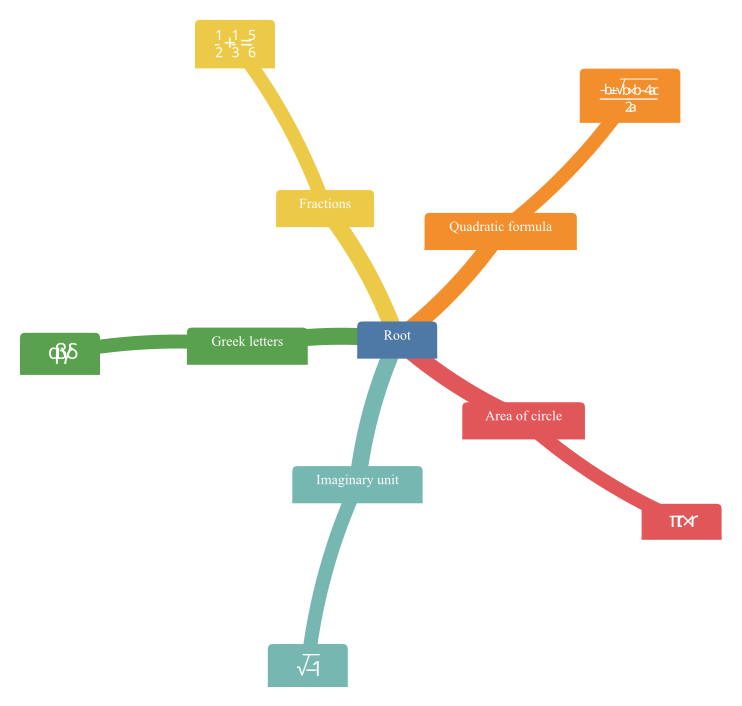
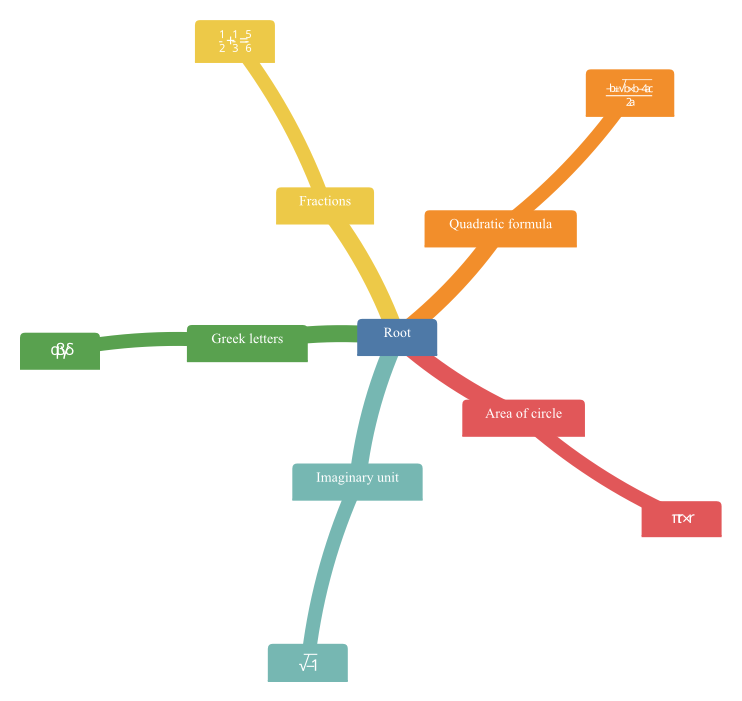
fix(math): tune spacing and baseline-align with surrounding text
Three readability fixes for $$..$$ output:

1. Track and expose the math expression's primary baseline. svgRenderer
   collects every glyph's op.Y while rendering; the median of those
   values gives the inline baseline (every inline char shares an op.Y;
   stacked numerators/denominators land on either side, so the median
   sits on the math axis). Plumb this through Render → RenderRich →
   text.MathRenderResult.Baseline.

2. Use that baseline in LabelElements instead of always centring the
   bbox. When the surrounding text uses dominant-baseline="auto" or
   "alphabetic" (e.g. sequence message labels), align the math baseline
   to ly so inline math like "Result is α" sits on the same line as the
   text. Centre-align stays for "central"/"middle".

3. Comma rendering adds a 0.15·fontSize trailing space (≈ \, in math
   mode), so f(x, t) reads with breathing room rather than running
   together. Drop displayScale from 1.5 to 1.2 — after the upside-down
   fix the math now renders at proper size, so the boost no longer
   needs to compensate for the previous mirrored layout.

diff --git a/pkg/renderer/math/math.go b/pkg/renderer/math/math.go
@@ -16,17 +16,31 @@ import (
 // fontSize controls the rendering scale; when 0 or negative, a default
 // of 14 is used.
 func Render(expr string, fontSize float64) (svg string, w, h float64, err error) {
+	s, w, h, _, err := RenderWithBaseline(expr, fontSize)
+	return s, w, h, err
+}
+
+// RenderWithBaseline is like Render but also returns the y-position of
+// the expression's primary baseline within the local SVG coordinate
+// system (where y=0 is the top of the rendered content). Callers that
+// need to align math with surrounding text by baseline use this value.
+func RenderWithBaseline(expr string, fontSize float64) (svg string, w, h, baseline float64, err error) {
 	expr = normalizeMathExpr(expr)
 	if fontSize <= 0 {
 		fontSize = defaultFontSize
 	}
-	return renderRaw(expr, fontSize*displayScale)
+	return renderRawWithBaseline(expr, fontSize*displayScale)
 }
 
 // renderRaw renders without applying displayScale; it's used internally
 // so the rich-renderer can apply displayScale once at the top level
 // instead of compounding it across recursive calls.
 func renderRaw(expr string, fontSize float64) (svg string, w, h float64, err error) {
+	s, w, h, _, err := renderRawWithBaseline(expr, fontSize)
+	return s, w, h, err
+}
+
+func renderRawWithBaseline(expr string, fontSize float64) (svg string, w, h, baseline float64, err error) {
 	// go-latex/mtex only resolves Greek letters and math operators
 	// when the parser is in math mode.  Bare expressions like \alpha
 	// are parsed in text mode and fall back to the backslash glyph.
@@ -36,22 +50,46 @@ func renderRaw(expr string, fontSize float64) (svg string, w, h float64, err err
 	}
 	fonts, err := MathFonts()
 	if err != nil {
-		return "", 0, 0, fmt.Errorf("math render: %w", err)
+		return "", 0, 0, 0, fmt.Errorf("math render: %w", err)
 	}
 	r := &svgRenderer{}
 	err = mtex.Render(r, expr, fontSize, defaultDPI, fonts)
 	if err != nil {
-		return "", 0, 0, fmt.Errorf("math render: %w", err)
+		return "", 0, 0, 0, fmt.Errorf("math render: %w", err)
 	}
 	// mtex's reported h is the bbox ascent — it understates total height
 	// for expressions with descenders or fractions. Use the observed
 	// y-range instead, and wrap the output in a translation so content
 	// starts at y=0.
 	if r.hasY {
+		baseline = medianBaseline(r.glyphYs) - r.minY
 		out := fmt.Sprintf(`<g transform="translate(0,%.3f)">%s</g>`, -r.minY, r.String())
-		return out, r.w, r.maxY - r.minY, nil
+		return out, r.w, r.maxY - r.minY, baseline, nil
 	}
-	return r.String(), r.w, r.h, nil
+	return r.String(), r.w, r.h, r.h, nil
+}
+
+// medianBaseline returns the median value of a slice of glyph baselines.
+// Median (rather than mean) keeps a stray descender or a stacked
+// numerator/denominator from biasing the result away from the inline
+// baseline that most glyphs share.
+func medianBaseline(ys []float64) float64 {
+	if len(ys) == 0 {
+		return 0
+	}
+	sorted := make([]float64, len(ys))
+	copy(sorted, ys)
+	// Insertion sort — n is small.
+	for i := 1; i < len(sorted); i++ {
+		for j := i; j > 0 && sorted[j-1] > sorted[j]; j-- {
+			sorted[j-1], sorted[j] = sorted[j], sorted[j-1]
+		}
+	}
+	mid := len(sorted) / 2
+	if len(sorted)%2 == 1 {
+		return sorted[mid]
+	}
+	return (sorted[mid-1] + sorted[mid]) / 2
 }
 
 // normalizeMathExpr cleans up common escaping issues in math expressions
@@ -65,10 +103,10 @@ const (
 	defaultFontSize = 14.0
 	defaultDPI      = 72.0
 	// displayScale enlarges math output relative to the surrounding text
-	// font size. Noto Sans Math glyphs at point-size N render visibly
-	// narrower than ordinary 16px text; scaling by 1.5 brings the math
-	// up to a comparable visual weight.
-	displayScale = 1.5
+	// font size. Noto Sans Math glyphs are visually a bit smaller than
+	// ordinary 16px text; a modest 1.2x bump brings the math to roughly
+	// the same x-height as adjacent text without overshadowing it.
+	displayScale = 1.2
 )
 
 // svgRenderer implements mtex.Renderer by converting drawtex
@@ -79,6 +117,12 @@ type svgRenderer struct {
 	dpi        float64
 	minY, maxY float64
 	hasY       bool
+	// glyphYs collects every glyph's op.Y (the baseline at which mtex
+	// placed that glyph). The median of these is a good approximation
+	// of the expression's primary baseline — for pure inline math every
+	// glyph shares the same op.Y, and for stacked content (fractions,
+	// roots) the median lands near the math axis.
+	glyphYs []float64
 }
 
 func (r *svgRenderer) noteY(y float64) {
@@ -106,6 +150,7 @@ func (r *svgRenderer) Render(w, h, dpi float64, cnv *drawtex.Canvas) error {
 	for _, op := range cnv.Ops() {
 		switch o := op.(type) {
 		case drawtex.GlyphOp:
+			r.glyphYs = append(r.glyphYs, o.Y)
 			r.renderGlyph(&buf, o)
 		case drawtex.RectOp:
 			r.renderRect(o)

diff --git a/pkg/renderer/math/rich.go b/pkg/renderer/math/rich.go
@@ -18,6 +18,14 @@ import (
 // individually, and concatenates the SVG fragments horizontally with the
 // special tokens rendered manually (comma glyph, raised/lowered groups).
 func RenderRich(expr string, fontSize float64) (svg string, w, h float64, err error) {
+	s, w, h, _, err := RenderRichWithBaseline(expr, fontSize)
+	return s, w, h, err
+}
+
+// RenderRichWithBaseline is like RenderRich but also returns the local
+// y-coordinate of the expression's primary baseline so callers can
+// baseline-align math with surrounding text.
+func RenderRichWithBaseline(expr string, fontSize float64) (svg string, w, h, baseline float64, err error) {
 	expr = normalizeMathExpr(expr)
 	if fontSize <= 0 {
 		fontSize = defaultFontSize
@@ -25,9 +33,9 @@ func RenderRich(expr string, fontSize float64) (svg string, w, h float64, err er
 	scaled := fontSize * displayScale
 	parts, ok := splitTopLevel(expr)
 	if !ok || len(parts) == 1 && parts[0].kind == partMath {
-		return renderRaw(stripNestedSupSub(expr), scaled)
+		return renderRawWithBaseline(stripNestedSupSub(expr), scaled)
 	}
-	return renderParts(parts, scaled)
+	return renderPartsWithBaseline(parts, scaled)
 }
 
 // stripNestedSupSub removes `^X` and `_X` patterns from the expression
@@ -184,35 +192,48 @@ func isAlpha(b byte) bool {
 // piece by (xCursor - localPieceMinX, 0). Since same fontSize produces
 // the same baseline location, simple horizontal stacking works.
 func renderParts(parts []rawPart, fontSize float64) (svg string, totalW, maxH float64, err error) {
+	s, w, h, _, e := renderPartsWithBaseline(parts, fontSize)
+	return s, w, h, e
+}
+
+// renderPartsWithBaseline assembles split parts and returns the
+// expression's primary baseline (in local SVG y) — taken from the first
+// math chunk (which sets the inline baseline for the whole expression).
+func renderPartsWithBaseline(parts []rawPart, fontSize float64) (svg string, totalW, maxH, baseline float64, err error) {
 	var sb strings.Builder
 	x := 0.0
 	maxH = 0.0
+	baselineSet := false
 	for _, p := range parts {
 		switch p.kind {
 		case partMath:
-			s, pw, ph, e := renderRaw(stripNestedSupSub(p.expr), fontSize)
+			s, pw, ph, pb, e := renderRawWithBaseline(stripNestedSupSub(p.expr), fontSize)
 			if e != nil {
-				return "", 0, 0, e
+				return "", 0, 0, 0, e
 			}
 			fmt.Fprintf(&sb, `<g transform="translate(%.3f,0)">%s</g>`, x, s)
 			x += pw
 			if ph > maxH {
 				maxH = ph
 			}
+			if !baselineSet {
+				baseline = pb
+				baselineSet = true
+			}
 		case partComma:
 			advance, glyphSVG, err := renderCharGlyph(',', fontSize)
 			if err != nil {
-				// Fall back to a small gap — better than failing.
 				x += fontSize * 0.3
 				continue
 			}
-			// Position comma so its baseline aligns with math baseline.
-			// Math output places its baseline near y = ascent of fonts;
-			// approximate by placing the comma at y offset of fontSize * 0.85
-			// (the typical ascent fraction of x-height + ascent).
+			// Position comma so its baseline aligns with the surrounding
+			// math's main baseline. mtex puts text-line glyphs at a baseline
+			// near 0.85 * fontSize (Noto Sans Math ascent). Add a thin
+			// space after the comma to mimic the small space mtex inserts
+			// after punctuation in math mode (\, ≈ 3mu = fontSize/6).
 			yBaseline := fontSize * 0.85
 			fmt.Fprintf(&sb, `<g transform="translate(%.3f,%.3f)">%s</g>`, x, yBaseline, glyphSVG)
-			x += advance
+			x += advance + fontSize*0.15
 		case partSup, partSub:
 			subSize := fontSize * 0.7
 			// Recurse via the rich path on the inner operand, but at
@@ -243,7 +264,7 @@ func renderParts(parts []rawPart, fontSize float64) (svg string, totalW, maxH fl
 			}
 		}
 	}
-	return sb.String(), x, maxH, nil
+	return sb.String(), x, maxH, baseline, nil
 }
 
 func absFloat(v float64) float64 {

diff --git a/pkg/renderer/text/text.go b/pkg/renderer/text/text.go
@@ -381,11 +381,16 @@ func MeasureSegments(segs []Segment, ruler interface {
 
 // MathRenderResult holds the output of a successful math render call.
 type MathRenderResult struct {
-	Elements    []any   // svgutil.Path / svgutil.Rect elements
-	Width       float64 // scaled width
-	Height      float64 // scaled height
-	OrigWidth   float64 // original unscaled width
-	OrigHeight  float64 // original unscaled height
+	Elements   []any   // svgutil.Path / svgutil.Rect elements
+	Width      float64 // scaled width
+	Height     float64 // scaled height
+	OrigWidth  float64 // original unscaled width
+	OrigHeight float64 // original unscaled height
+	// Baseline is the y-coordinate (within the rendered fragment's local
+	// frame, where y=0 is the top of Elements) of the expression's
+	// primary baseline. Callers use it to align math with surrounding
+	// text by baseline rather than by bbox centre.
+	Baseline float64
 }
 
 // RenderMath renders a math expression to SVG elements with optional
@@ -395,7 +400,7 @@ type MathRenderResult struct {
 // that do not support CSS style inheritance from parent <g> nodes.
 func RenderMath(expr string, fontSize, targetH float64, fill string) *MathRenderResult {
 	var svgMath string
-	var mw, mh float64
+	var mw, mh, mbase float64
 	var err error
 	func() {
 		defer func() {
@@ -403,7 +408,7 @@ func RenderMath(expr string, fontSize, targetH float64, fill string) *MathRender
 				err = fmt.Errorf("math render panic: %v", r)
 			}
 		}()
-		svgMath, mw, mh, err = math.RenderRich(expr, fontSize)
+		svgMath, mw, mh, mbase, err = math.RenderRichWithBaseline(expr, fontSize)
 	}()
 	if err != nil {
 		return nil
@@ -429,6 +434,7 @@ func RenderMath(expr string, fontSize, targetH float64, fill string) *MathRender
 		Height:     mh * scale,
 		OrigWidth:  mw,
 		OrigHeight: mh,
+		Baseline:   mbase * scale,
 	}
 }
 

diff --git a/pkg/renderer/text/render.go b/pkg/renderer/text/render.go
@@ -121,8 +121,28 @@ func LabelElements(label string, cx, cy, fontSize float64, anchor, dominant, tex
 					default:
 						mx = xOff + seg.Width/2 - res.Width/2
 					}
-					// Centre math vertically on the text line.
-					my := ly - res.Height/2
+					// Vertical alignment depends on dominant-baseline:
+					//  - "auto" / unset / "alphabetic": ly is the text
+					//    baseline. Align math baseline to ly.
+					//  - "central" / "middle": ly is the visual centre.
+					//    Centre math bbox on ly.
+					//  - "hanging": ly is the cap-top. Align math top.
+					// Falling back to bbox-centre for unknown values keeps
+					// existing behaviour when callers haven't specified a
+					// dominant baseline.
+					var my float64
+					switch dominant {
+					case svgutil.BaselineAuto, "", "alphabetic":
+						if res.Baseline > 0 {
+							my = ly - res.Baseline
+						} else {
+							my = ly - res.Height
+						}
+					case "hanging", "text-before-edge":
+						my = ly
+					default: // central, middle
+						my = ly - res.Height/2
+					}
 					g := &svgutil.Group{
 						Transform: fmt.Sprintf("translate(%.2f,%.2f) scale(%.3f)", mx, my, scale),
 						Children:  res.Elements,
